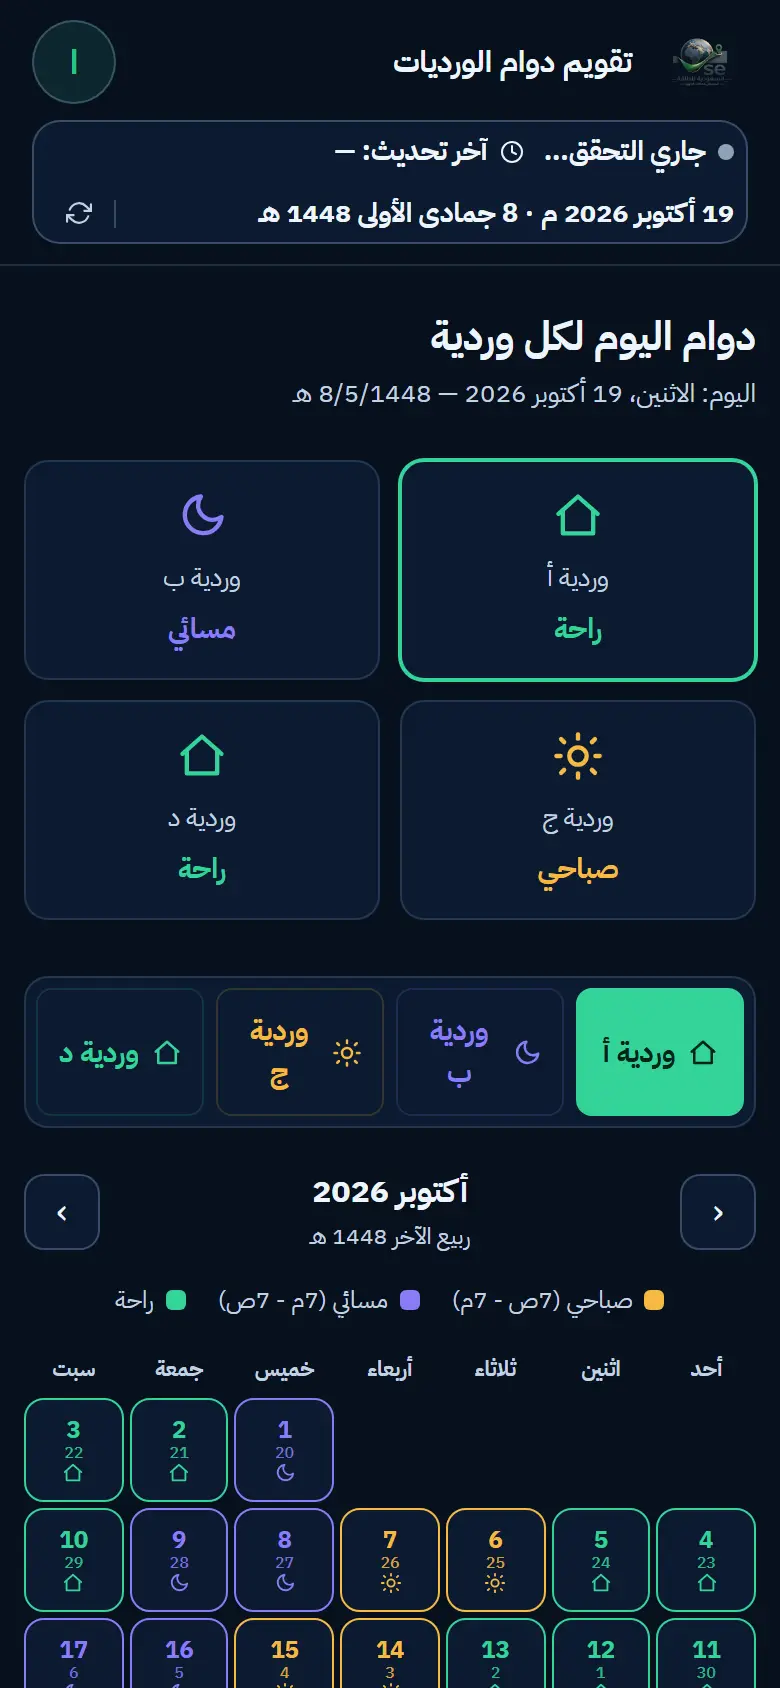
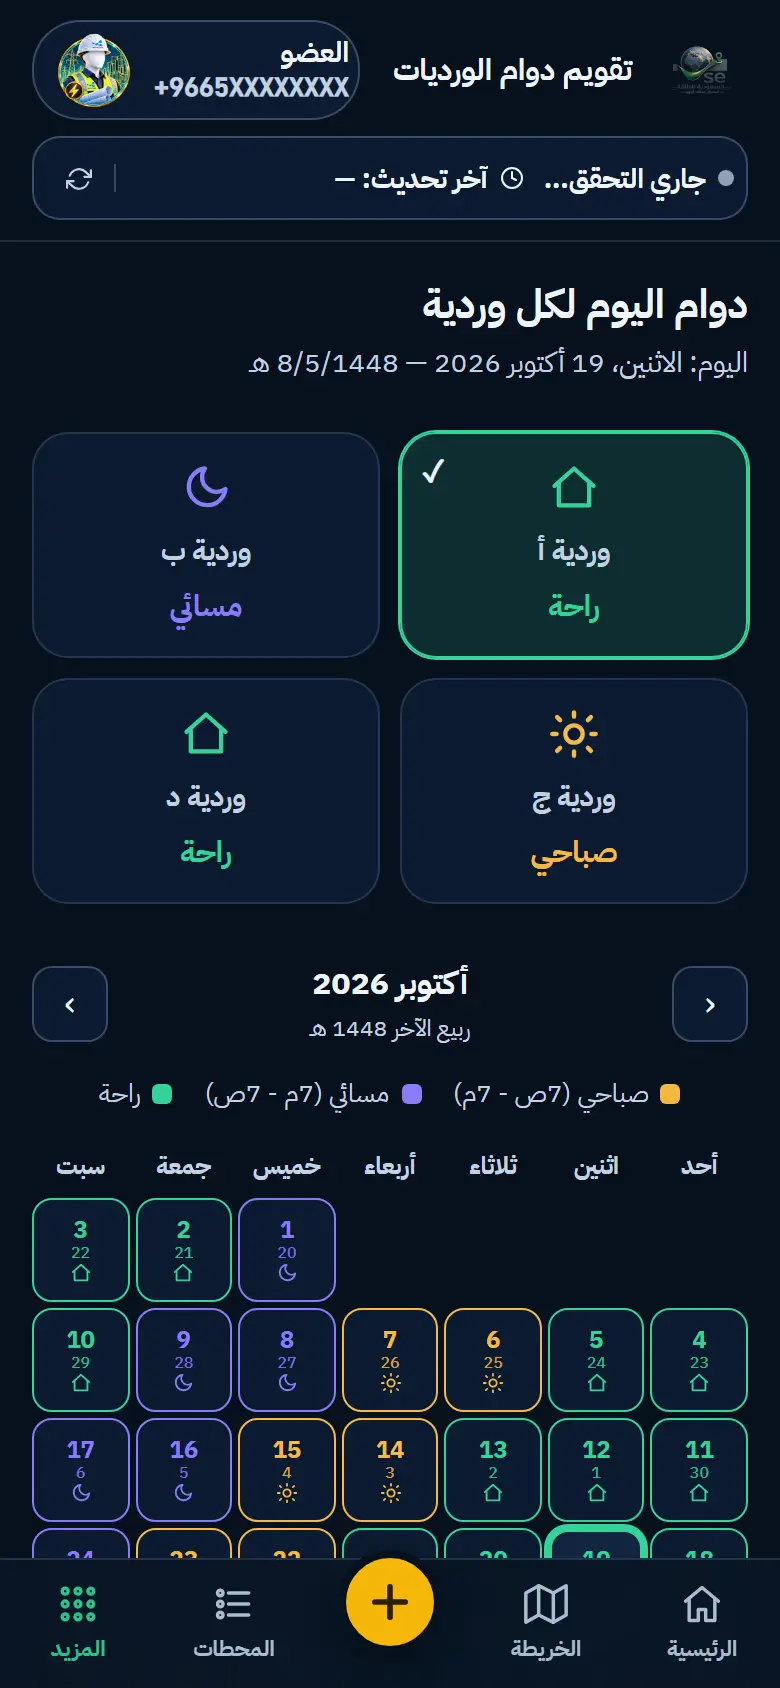
إعادة التصميم — إعادة تصوير الجولة بعد تعديل الورديات

diff --git a/config/جولة_تعريفية.js b/config/جولة_تعريفية.js
@@ -67,7 +67,7 @@
       { img: 'assets/tour/17-more-offline-map.webp', rect: { x: 17, y: 416, w: 356, h: 56 },
         title: '🗺 «المزيد» وخريطة جدة بدون إنترنت',
         text: 'في «المزيد»: حسابي، والورديات، والبيانات المؤقتة، والوضع الداكن، والخروج.\nومنها «خريطة جدة بدون إنترنت»: حمّلها مرة واحدة، فتعمل الخريطة والملاحة حتى في الأماكن بلا تغطية.' },
-      { img: 'assets/tour/18-shifts.webp', rect: { x: 12, y: 230, w: 366, h: 230 },
+      { img: 'assets/tour/18-shifts.webp', rect: { x: 16, y: 216, w: 358, h: 236 },
         title: '📅 تقويم دوام الورديات 4×4',
         text: 'من «المزيد» ← «تقويم دوام الورديات»: دوام اليوم لكل وردية (صباحي / مسائي / راحة) محسوب تلقائيًا.\nوتحته تقويم الشهر كاملًا بالتاريخ الميلادي والهجري.' },
       { img: 'assets/tour/19-dashboard.webp', rect: { x: 16, y: 289, w: 358, h: 194 },
